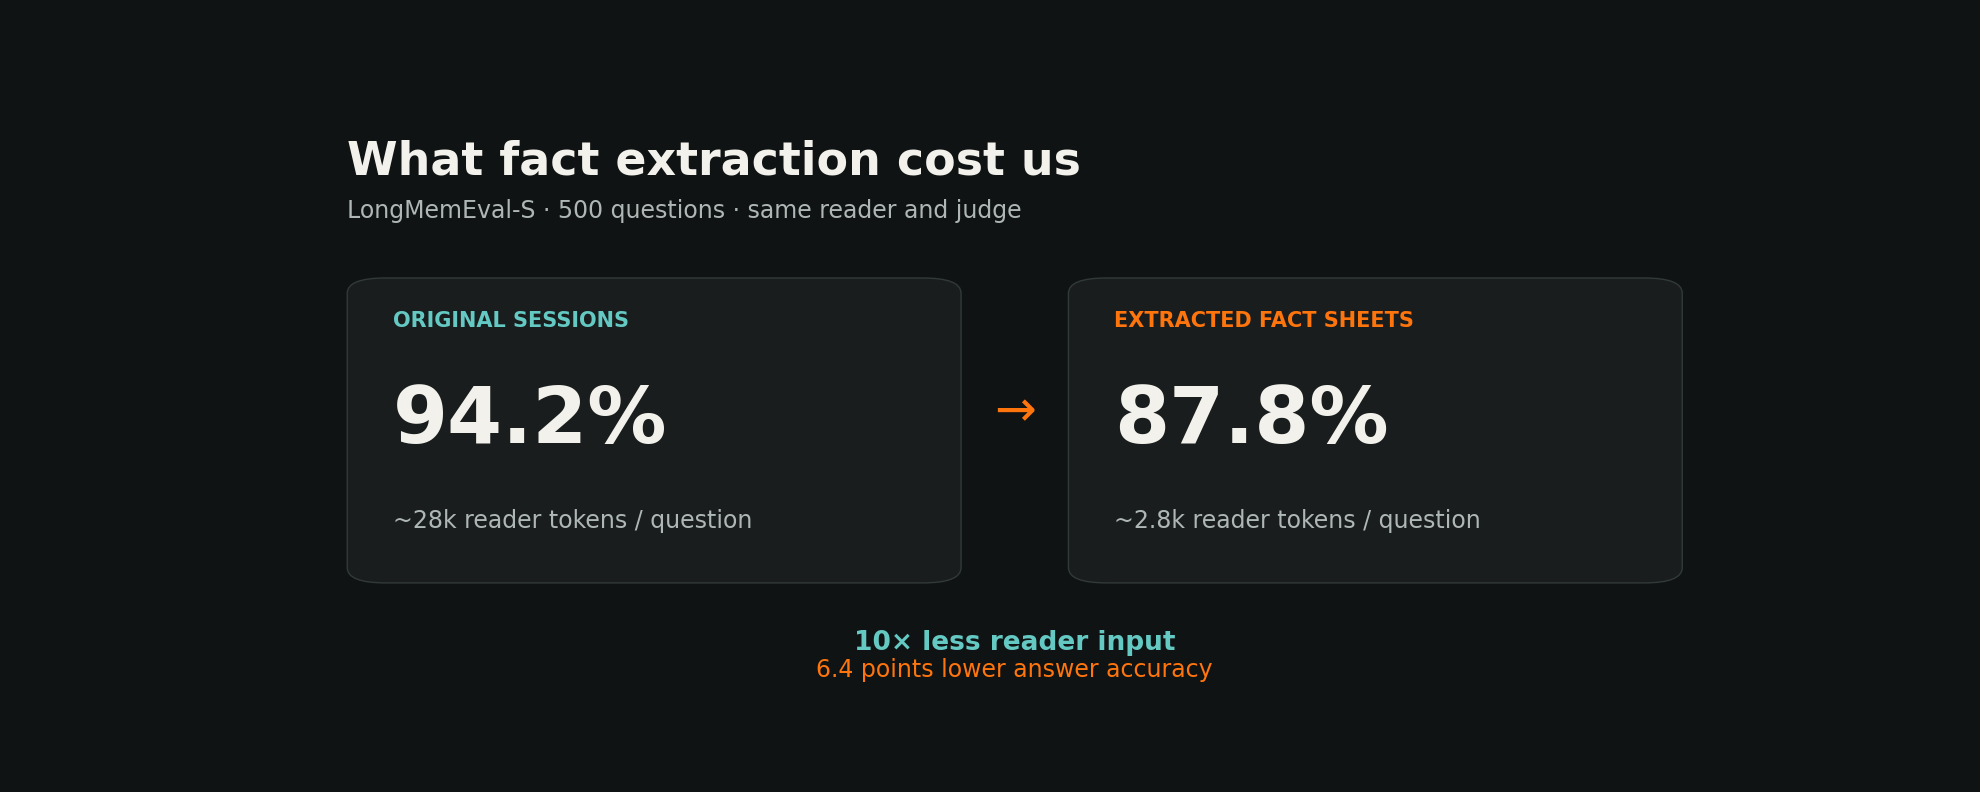
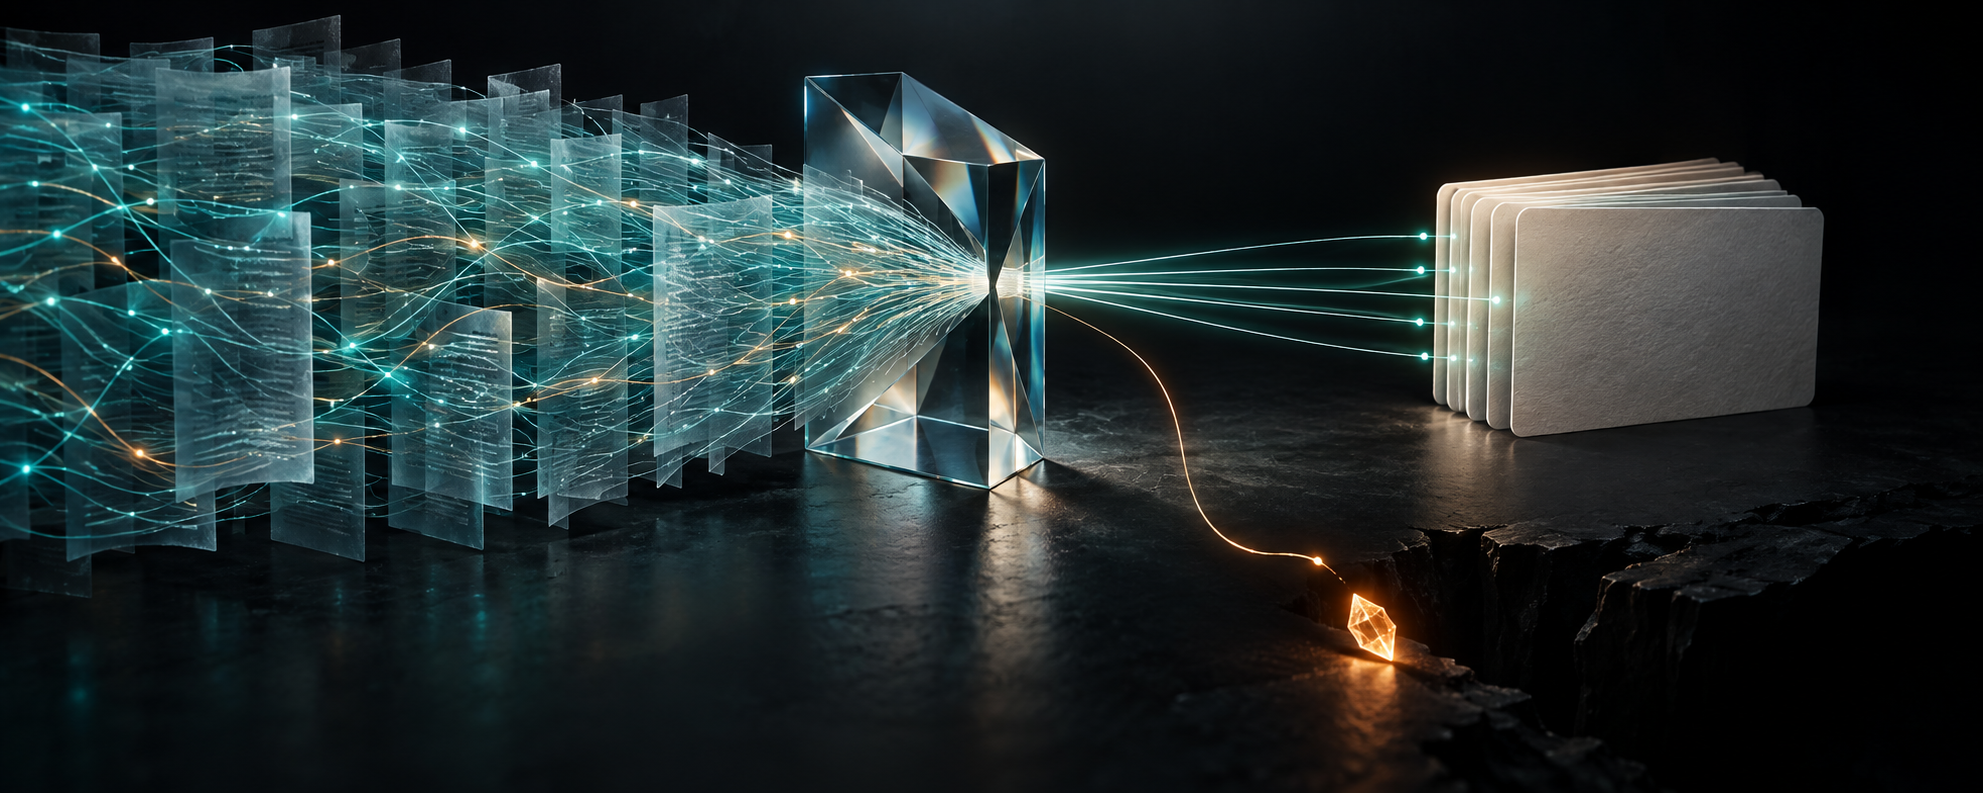
Use abstract prism cover for fact extraction article

diff --git a/src/content/blog/why-we-do-not-extract-facts-by-default.md b/src/content/blog/why-we-do-not-extract-facts-by-default.md
@@ -16,9 +16,9 @@ An agent cannot remember a detail that its memory system discarded on the way in
 
 We tested that boundary in [Lore](https://github.com/corespeed-io/lore). We made a compact fact sheet from each conversation session in a [500-question LongMemEval-S run](https://github.com/xiaowu0162/LongMemEval), then compared answers from those fact sheets with answers from the original sessions. The smaller representation saved roughly 90% of the reader's input tokens. It also lowered answer accuracy by **6.4 percentage points**. Our [earlier article](/blog/how-we-took-longmemeval-from-80-to-94-without-touching-retrieval/) covered improvements to the reader; this article looks at what happens when the source is compressed before search.
 
-![Two representations of the same conversation workload: original sessions scored 94.2% at about 28,000 reader tokens per question; extracted fact sheets scored 87.8% at about 2,800](/blog/why-we-do-not-extract-facts-by-default/cover.png)
+![Abstract illustration of conversation pages passing through a prism into compact fact sheets while one amber detail falls away](/blog/why-we-do-not-extract-facts-by-default/cover.png)
 
-*Figure 1. The measured tradeoff. These are end-to-end answer scores, not retrieval scores.*
+*Figure 1. A visual metaphor for the write-time risk: a detail omitted from the derived record cannot be recovered by searching that record.*
 
 ## What we actually changed
 
@@ -39,7 +39,7 @@ The evaluation's retrieval target was the answer-bearing **session**. A fact she
 
 ![Session-level retrieval stayed near 99%, while answer accuracy fell after the source was compressed into a fact sheet](/blog/why-we-do-not-extract-facts-by-default/retrieval-vs-answer.png)
 
-*Figure 2. A near-flat session recall line concealed the answer loss. The two panels use separate scales and measure different stages.*
+*Figure 2. Session recall barely changed while answer accuracy fell. The rows measure different stages, and every bar starts at zero.*
 
 The clearest category was questions about what the **assistant** had said in an earlier session. The original-session run scored **100%**; the fact-sheet run scored **73.2%**. The [earlier analysis of the same run](/blog/how-we-took-longmemeval-from-80-to-94-without-touching-retrieval/) also found losses in questions that required combining details across sessions. A compact sheet may preserve a topic or decision while omitting a name, qualifier, count, or the speaker responsible for a statement. Once that happens, a better search query cannot recover the omitted text from the fact sheet.
 
